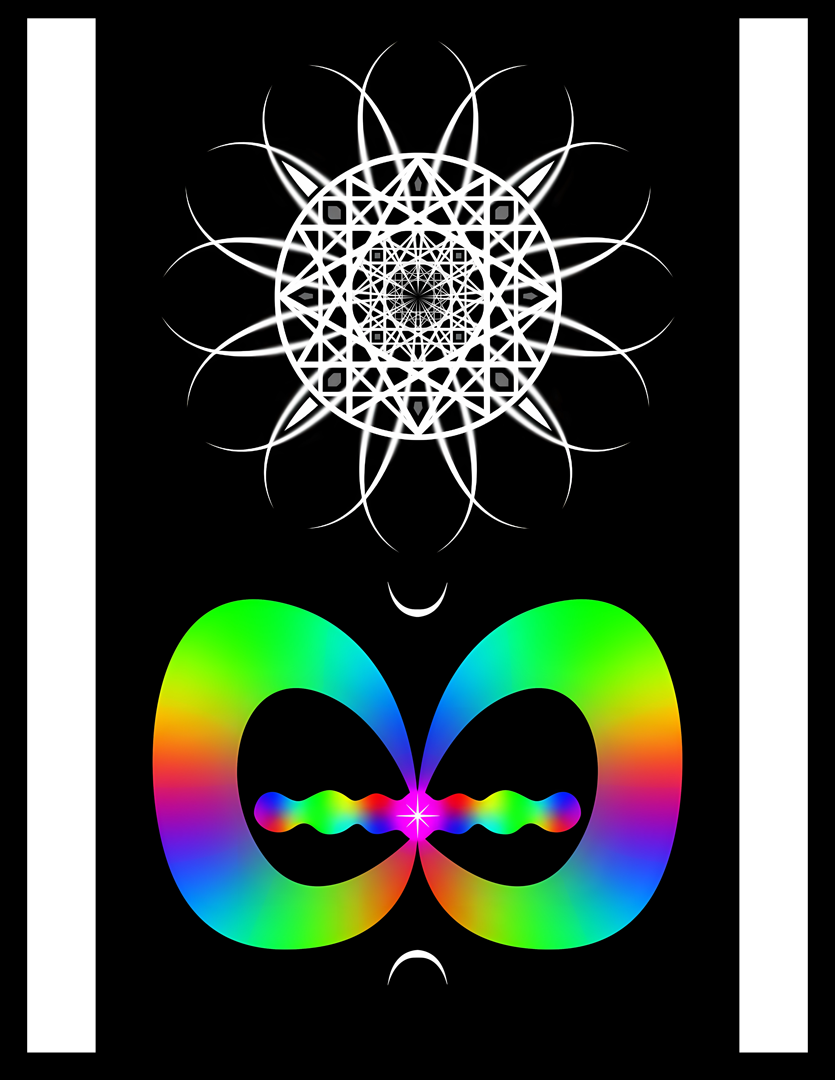
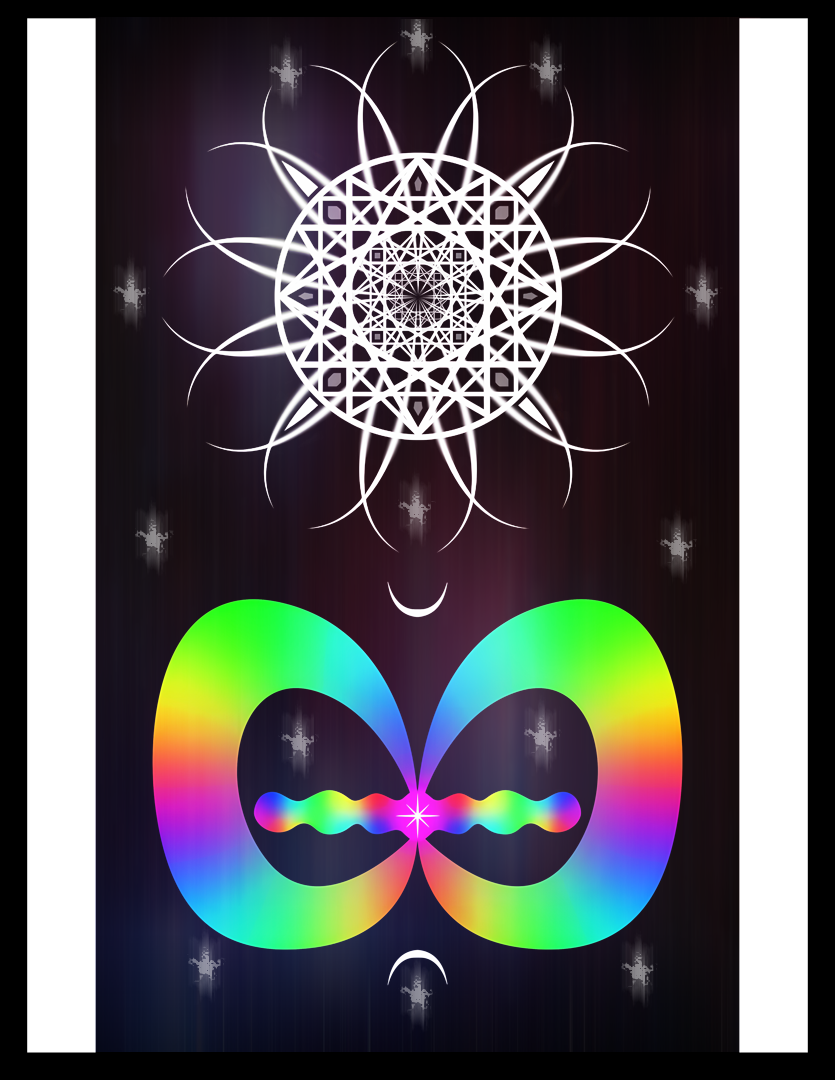
Version 1.06 Commit
looping star background animation on index and ibdogu page temporary update

diff --git a/css/index.css b/css/index.css
@@ -41,7 +41,7 @@ p {
     from {background-position: 0 0;}
     to {background-position: -10000px 5000px;}
 }
-.stars, .nebucolor{
+.container, .nebucolor{
     position: absolute;
     top:0;
     left:0;
@@ -52,13 +52,37 @@ p {
     display: block;
     z-index: -1;
 }
-.stars{
+/*.stars{
     background: url(../img/starrysky.png) repeat center center;
     background-size: 100%;
     pointer-events: none;
     opacity: 0.72;
     z-index: -2;
+}*/
+.container {
+    overflow: hidden;
+    top:0;  left:0;
+    width: 100vw;   height: 100vh;
+    pointer-events: none;
 }
+.sliding-background {
+    position: absolute;
+    width: 200%;    height: 100%;
+    background: url("../img/starrysky2.png") repeat-x;
+    background-size: auto 100%;
+    display: flex;  flex-direction: row-reverse;
+}
+.sliding-background::before, .sliding-background::after {
+    content: "";
+    flex: 1;
+    background: inherit;
+}
+@keyframes slide {
+    from { transform: translateX(-50%); }
+    to { transform: translateX(0); }
+}
+.sliding-background { animation: slide 656s linear infinite; }
+
 .nebucolor{
     background: transparent url(../img/nebucolor.png) repeat center center;
     background-blend-mode:multiply;

diff --git a/css/references.css b/css/references.css
@@ -19,7 +19,7 @@ h2 {
     top: 6vh; 
     left: 50%;
     transform: translateX(-50%);
-    width: 20vw;
+    width: 27vw;
     max-width: 100%;
     z-index: 2;
     cursor: pointer;
@@ -56,9 +56,9 @@ h2 {
     position: absolute;
     top: 40px; 
     right: 40px; 
-    font-size: 60px; 
+    font-size: 72px; 
     background: white;
-    border: 2px solid black;
+    border: 5px solid black;
     cursor: pointer;
     z-index: 10;
     display: block;
@@ -67,8 +67,8 @@ h2 {
 .grid-container {
     display: grid;
     grid-template-columns: repeat(auto-fill, minmax(252px, 1fr));
-    gap: 2px;
-    width: 100vw;
+    gap: 16px;
+    width: 100%;
     padding: 40px 10px 10px; 
     background-color: #e2e1dd;
 }

diff --git a/css/ibdogu.css b/css/ibdogu.css
@@ -2,3 +2,25 @@ h2 {
     text-align: center;
     line-height: 12vh;
 }
+#ibdoguTitle {
+    width: 24vw;
+    min-width: 250px;
+    height: auto;
+    position: relative;
+    left: 50%;
+    transform: translateX(-50%);
+    z-index: 10;
+}
+#ibdoguAlphabet {
+    width: 36vw;
+    min-width: 360px;
+    height: auto;
+    position: relative;
+    left: 50%;
+    transform: translateX(-50%);
+    z-index: 10;
+}
+.constAnnounce {
+    width: 99vw;
+    height: auto;
+}

diff --git a/index.html b/index.html
@@ -22,7 +22,10 @@
 
     </aside>
     <main>
-        <div class="stars"></div>
+        <div class="container">
+            <div class="sliding-background"></div>
+        </div>
+        <!-- <div class="stars"></div> -->
         <div class="nebucolor"></div>
         <header class="header-sub">
             <a href="ibdogu.html" class="langLink"><img id="wunforesh1" src="img/wunforesh1.png"></a>

diff --git a/ibdogu.html b/ibdogu.html
@@ -19,6 +19,8 @@
         </nav>
     </header>
     <main>
-        <h2>Ibdogu Language-Learning Element Under Construction</h2> <br>
+        <img id="ibdoguTitle" src="img/IbdoguTitle.png">
+        <div class="constAnnounce"><h2>Ibdogu Language-Learning Element Under Construction</h2> <br></div>
+        <img id="ibdoguAlphabet" src="img/IbdoguAlphabet.png">
     </main>
 </body>
